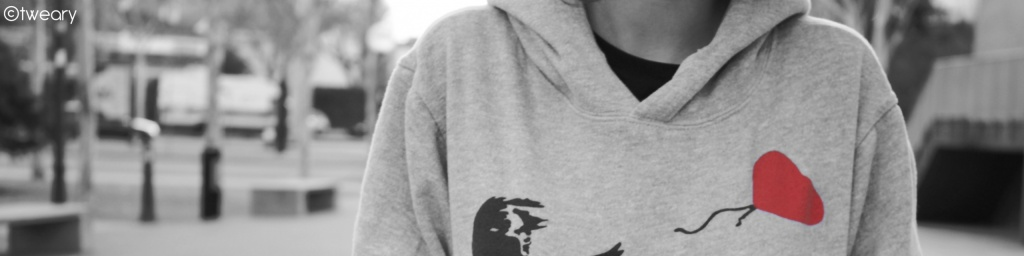
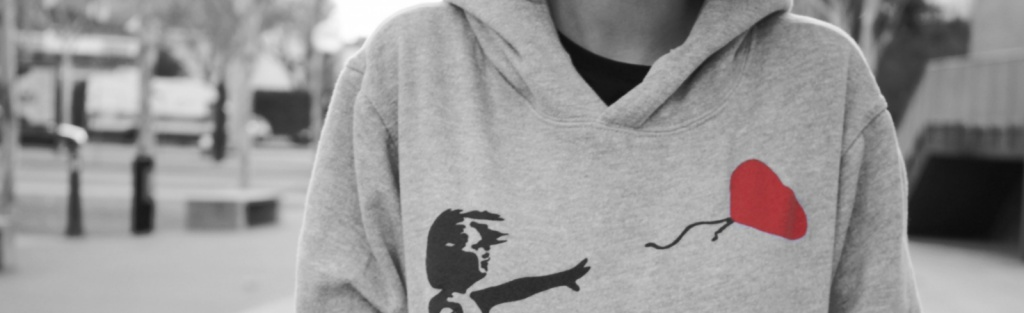
update the about index page

diff --git a/_layouts/page.html b/_layouts/page.html
@@ -18,7 +18,7 @@
       <header class="entry-header">
         <h3 class="entry-title">{% if page.headline %}{{ page.headline }}{% else %}{{ page.title }}</h3>{% endif %}
       </header>
-      <div class="entry-content">
+      <div class="entry-content" style="font-family: Galdeano">
         {{ content }}
       </div><!-- /.entry-content -->
     </div><!-- /.entry-wrapper -->

diff --git a/about/index.md b/about/index.md
@@ -1,26 +1,19 @@
 ---
 layout: page
-title: About the Jekyll Theme
-excerpt: "So Simple is a responsive Jekyll theme for your words and images."
-modified: 2014-08-08T19:44:38.564948-04:00
+title: "I'm Polo."
+excerpt: "Welcome to Polo's Blog. I share my thoughts, emotions and stories with you here!"
+modified: 2015-03-15T19:44:38.564948-04:00
 image:
-  feature: so-simple-sample-image-4.jpg
-  credit: WeGraphics
-  creditlink: http://wegraphics.net/downloads/free-ultimate-blurred-background-pack/
+  feature: let-it-go.jpg
+  credit: WallpapersWide
+  creditlink: http://wallpaperswide.com/let_it_go-wallpapers.html
 ---
 
-Looking for a simple, responsive, theme for your Jekyll powered blog? Well look no further. Here be **So Simple Theme**, the follow up to [**Minimal Mistakes**](http://mmistakes.github.io/minimal-mistakes) --- by designer slash illustrator [Michael Rose](http://mademistakes.com).
+Welcome to Polo's Blog. This is a place where I share my thoughts, emtions and stories with all of you, friends and strangers. I was a second-year Ph.D. student at UCLA (University of California, Los Angeles) about several weeks ago. But now I am M.S. student and going to graduate by next week. It's a long story. I withdrew from the Ph.D. program and finished it with a M.S. degree. I am going to work as software engineer at [Appfolio](http://www.appfolio.com/), a started-up company at Santa Barbara.
 
-## So Simple Theme is all about:
+I don't know how many words I should put it here to explain who is Polo. But I do want to say as much as I can. I notice that the space of sharing sorrow and happiness shrinks more as I become older. Luckily, I got this place. I am zealous in web development, especially in frontend, even though I don't grasp many coding and design skills. Here are two simple websites I have recently created.
+  
+  - [Wudired](http://pololee.github.io/wudired/). I created this for my best friend, wudired. I believe it is great. The layout, animation, color and font are great. However, he doesn't seem to like it :( In this website, I use a framework [full-page.js](http://alvarotrigo.com/fullPage/). The idea of the color selection comes from [Deckset](http://www.decksetapp.com/). I got help from Yunlei with the animation part. There is still one more part I have to finish, which is to make it responsive.
+  - [Rose-life](http://pololee.github.io/rose-life/). This is the last quarter I stay at UCLA. I have lived with those friend since I first landed on the land. I always think we should have something to keep our memories. So I decided to create this website. When I went over all the picture we took before, I was moved by them. Actually I was proud of making this website right after I finished it. But again people on this webpage except me seems not care it at all. It's OK. I alway speak it to myself.
 
-* Responsive templates. Looking good on mobile, tablet, and desktop.
-* Gracefully degrading in older browsers. Compatible with Internet Explorer 9+ and all modern browsers.
-* Minimal embellishments and subtle animations.
-* Optional large feature images for posts and pages.
-* [Custom 404 page]({{ site.url }}/404.html) to get you started.
-* [Simple site search](https://github.com/christian-fei/Simple-Jekyll-Search)
-* Support for Disqus Comments
-
-<a markdown="0" href="{{ site.url }}/theme-setup" class="btn">Install So Simple Theme</a>
-
-[^1]: Example: *domain.com/category-name/post-title*
+There is always a way to keep memories. There is allways a way to get though the difficult time in everyday's life. You should believe, time will heal all regardless of how you feel right now.
